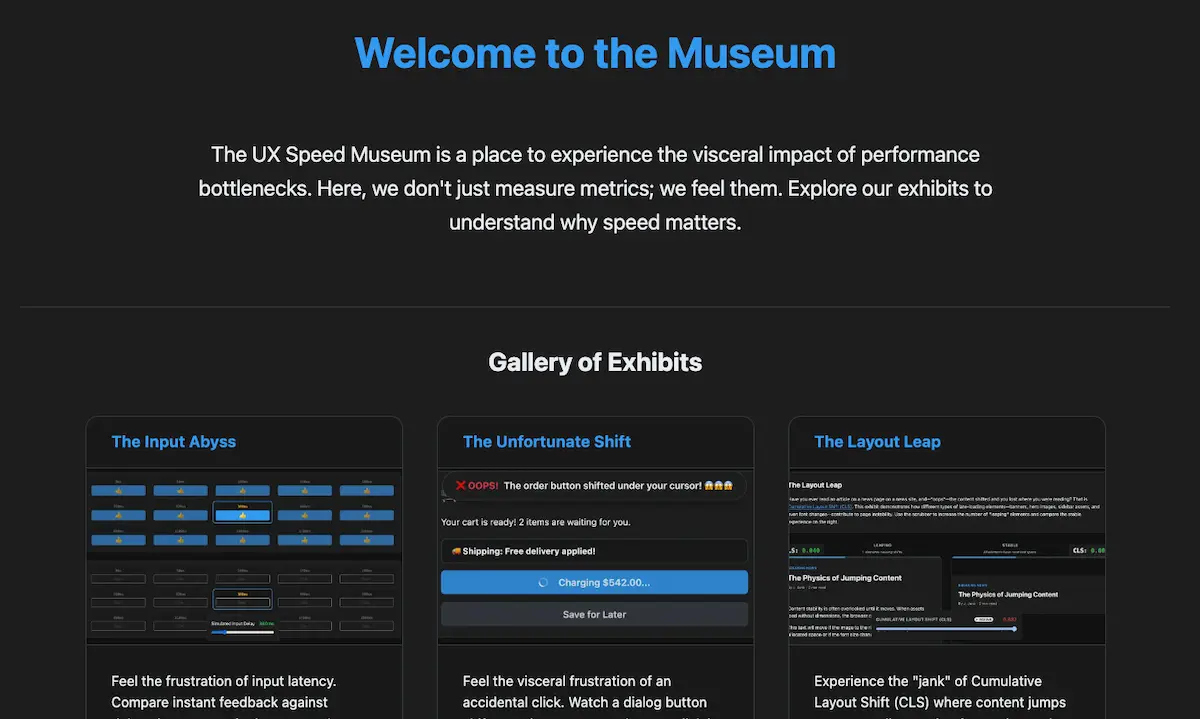
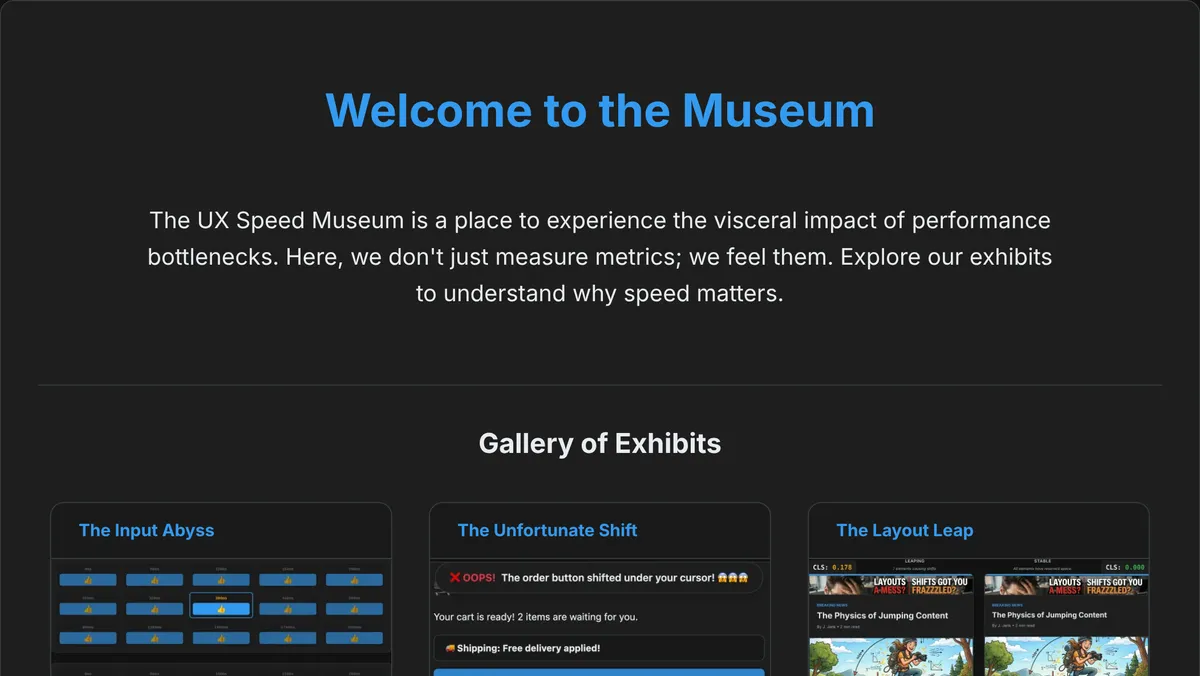
chore: recapture thumbnails without the controls overlay
Slow Starter, Layout Leap, Input Abyss, Buried Lead and the home page
image are recaptured in dark theme showing only the experience itself:
no controls overlay, variant picker or site header. Adds the script
that produces them so they can be regenerated.

Claude-Session: https://claude.ai/code/session_01CyYBoYWyqPjVyQGQmrjQXv

diff --git a/AGENTS.md b/AGENTS.md
@@ -130,7 +130,7 @@ The application is built as a multi-page site using Astro in **Static Site Gener
 - **Side-by-Side Layout:** Always place the slower or throttled experience on the left to prioritize user attention on the performance bottleneck.
 - **Responsive Design:** Fully responsive supporting mobile and desktop. 📱💻
 - **Static First:** All HTML for every exhibit state must be statically generated/pre-rendered.
-- **Exhibit Thumbnails:** Gallery card / social images are captures of the exhibit in **dark theme**.
+- **Exhibit Thumbnails:** Gallery card / social images are captures of the exhibit in **dark theme** that show only the experience itself: no controls overlay, no variant picker, no site header, so they do not need recapturing when the controls change. Regenerate them with `scripts/capture-thumbnails.mjs` (needs Playwright; see the header of the script).
 - **Exhibit Descriptions:** Keep them short (two brief paragraphs at most). `ExhibitDescription` renders the HTML directly into its content block, so descriptions may contain their own `<p>` elements without leaving empty paragraphs behind.
 - **Inclusive Mock Content:** Mock pages must not use gendered categories (e.g. Men / Women). The Chronos store navigation is Collections / Sport / Classic.
 - **Docked Controls:** The controls overlay is docked flush to the bottom edge of the screen (`position: sticky; bottom: 0`), never floating above it. It stays attached all the way to the end of the page (no padding below it) and on pages shorter than the screen. The `PerformanceController` is a compact bar: a single row on wide screens (label and replay, scrubber, value, full-screen buttons) and two rows on narrow ones, so it covers as little of the exhibit as possible. The Layout Leap controller spans the full stage width, because its CLS snap points sit close together and need a longer scrubber.
